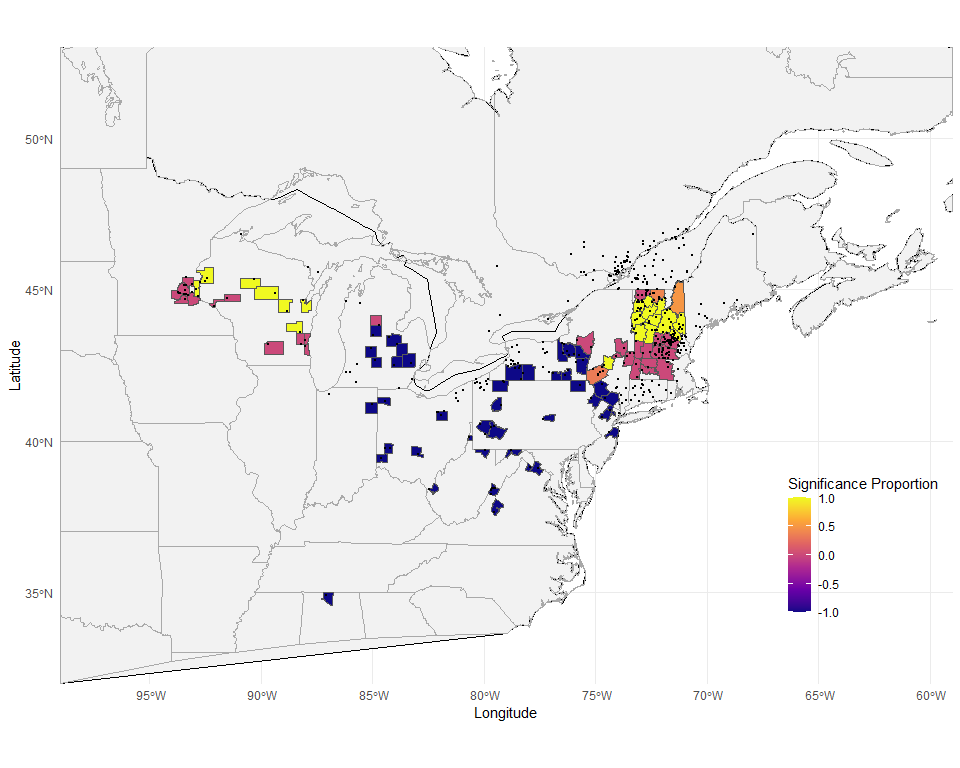
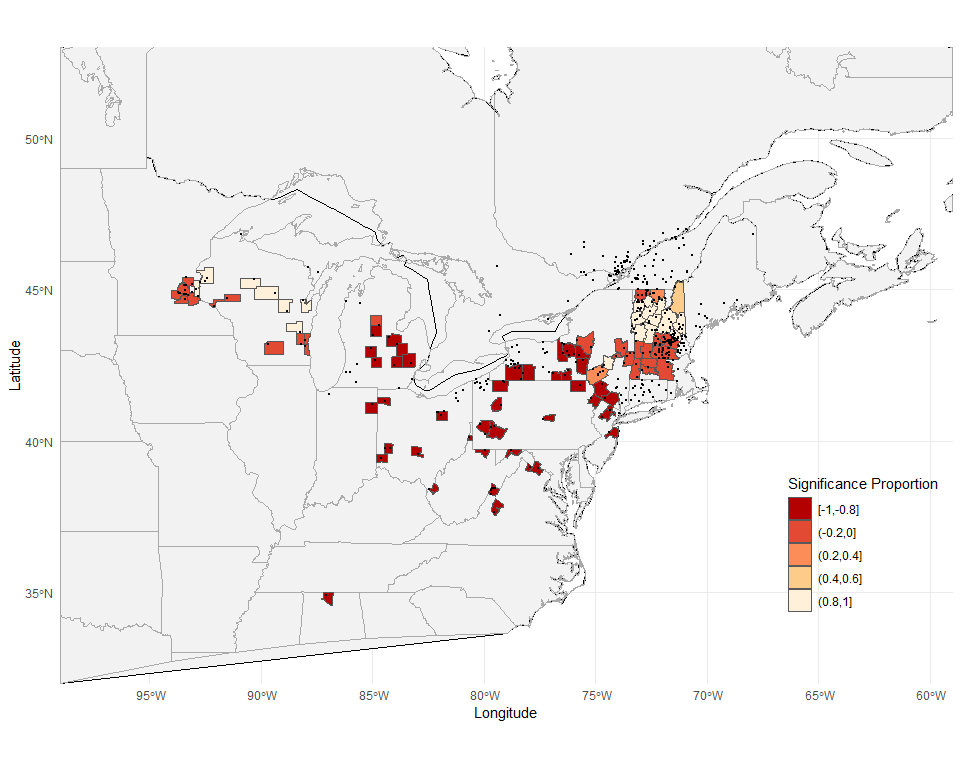
Changed README plot colors

diff --git a/README.md b/README.md
@@ -104,22 +104,22 @@ library(terra)
 x <- rnorm(1000)
 sens_slope(x)
 #> $estimates
-#>   Sen's slope 
-#> -2.306566e-05 
+#>  Sen's slope 
+#> 8.884747e-05 
 #> 
 #> $statistic
-#>          z 
-#> -0.1967046 
+#>         z 
+#> 0.8288135 
 #> 
 #> $p.value
-#> [1] 0.8440587
+#> [1] 0.40721
 #> 
 #> $parameter
 #>    n 
 #> 1000 
 #> 
 #> $conf.int
-#> [1] -0.0002548089  0.0002063348
+#> [1] -0.0001237797  0.0003027638
 #> attr(,"conf.level")
 #> [1] 0.95
 
@@ -174,21 +174,27 @@ crop_lims <- c(xmin = -99, ymin = 32, xmax = -59, ymax = 53)
 world <- ne_countries(scale = "medium", returnclass = "sf")
 north_america <- world |>
   filter(region_un == "Americas", name %in% c("United States of America", "Canada")) |>
-  st_crop(crop_lims)
+  sf::st_crop(crop_lims)
 us_states <- ne_states(country = "United States of America", returnclass = "sf") |>
-  st_crop(crop_lims)
+  sf::st_crop(crop_lims)
 canada_provinces <- ne_states(country = "Canada", returnclass = "sf") |>
-  st_crop(crop_lims)
+  sf::st_crop(crop_lims)
+
+# Prepare colors
+breaks <- seq(-1, 1, by = 0.2)
+eco_regions_joined$sig_mean_class <- cut(eco_regions_joined$sig_mean, 
+                                         breaks, include.lowest = TRUE)
 
 # Plot eco regions colored by significance proportion
 ggplot() +
   geom_sf(data = north_america, fill = "grey95", color = "black", size = 0.2) +
   geom_sf(data = us_states, fill = NA, color = "darkgray", size = 0.3) +
   geom_sf(data = canada_provinces, fill = NA, color = "darkgray", size = 0.3) +
-  geom_sf(data = eco_regions_joined, mapping = aes(fill = sig_mean)) +
+  geom_sf(data = eco_regions_joined, mapping = aes(fill = sig_mean_class)) +
   geom_sf(data = farms_sf, color = "black", size = 1.5) +
   coord_sf(xlim = c(-99, -59), ylim = c(32, 53), expand = FALSE) +
-  scale_fill_viridis_c(name = "Significance Proportion", option = "plasma") +
+  scale_fill_manual("Significance Proportion", 
+                    values = rev(RColorBrewer::brewer.pal(7, "OrRd"))) +
   theme_minimal() +
   labs(
     # title = "Significance of Sens Slope at Maple Farms",
@@ -213,15 +219,21 @@ variable <- "GEOID"
 us_counties_joined <- sens_farms(farms_coords = farms_sf, sap_prop = sap_prop,
                                  shapefile = shapefile, group_var = variable)
 
+# Prepare colors
+breaks <- seq(-1, 1, by = 0.2)
+us_counties_joined$sig_mean_class <- cut(us_counties_joined$sig_mean, 
+                                         breaks, include.lowest = TRUE)
+
 # Plot
 ggplot() +
   geom_sf(data = north_america, fill = "grey95", color = "black", size = 0.2) +
   geom_sf(data = us_states, fill = NA, color = "darkgray", size = 0.3) +
   geom_sf(data = canada_provinces, fill = NA, color = "darkgray", size = 0.3) +
-  geom_sf(data = us_counties_joined, mapping = aes(fill = sig_mean)) +
+  geom_sf(data = us_counties_joined, mapping = aes(fill = sig_mean_class)) +
   geom_sf(data = farms_sf, color = "black", size = 0.5) +
   coord_sf(xlim = c(-99, -59), ylim = c(32, 53), expand = FALSE) +
-  scale_fill_viridis_c(name = "Significance Proportion", option = "plasma") +
+  scale_fill_manual("Significance Proportion", 
+                    values = rev(RColorBrewer::brewer.pal(5, "OrRd"))) +
   theme_minimal() +
   labs(
     # title = "Significance of Sens Slope at Maple Farms",